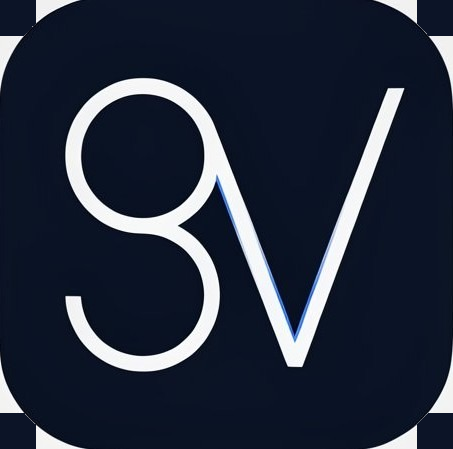
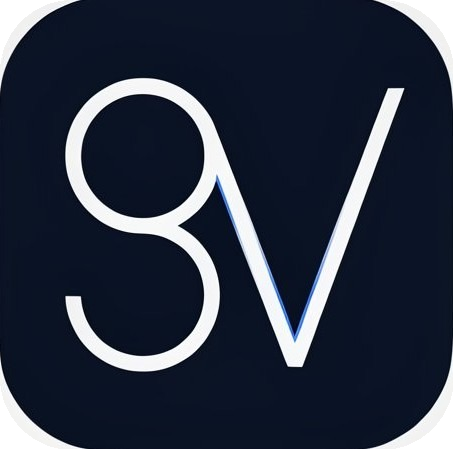
Apply transparent PNG mask to remove outer white background corners

diff --git a/frontend/src/components/LogoMark.jsx b/frontend/src/components/LogoMark.jsx
@@ -3,11 +3,11 @@ import brandLogo from "../assets/brand-logo.png";
 
 export default function LogoMark({ className = "w-8 h-8", animated = false }) {
   return (
-    <div className={`relative flex items-center justify-center shrink-0 overflow-hidden rounded-xl bg-slate-950 border border-slate-800/80 shadow-2xs ${className}`}>
+    <div className={`relative flex items-center justify-center shrink-0 rounded-xl overflow-hidden shadow-2xs ${className}`}>
       <img
         src={brandLogo}
         alt="Suchit Vanapilli SV Logo"
-        className={`w-full h-full object-cover rounded-xl ${animated ? "animate-pulse" : ""}`}
+        className={`w-full h-full object-contain rounded-xl ${animated ? "animate-pulse" : ""}`}
       />
     </div>
   );
